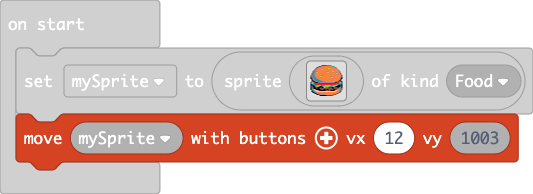
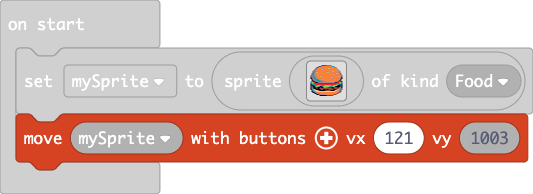
Update main.blocks, main.ts

Changed region(s): [[0.7505, 0.5567, 1.0, 0.866]]

diff --git a/main.ts b/main.ts
@@ -32,4 +32,4 @@ f 6 6 d d f f f f f e e e f f e f f e e e e e f f e e d b 4 6 e
 . . . . . . . . . f f f f f f f c c c c c e e . . . . . . . . . 
 . . . . . . . . . . . . . . . . . . . . . . . . . . . . . . . . 
 `, SpriteKind.Food)
-controller.moveSprite(mySprite, 12, 1003)
+controller.moveSprite(mySprite, 121, 1003)
